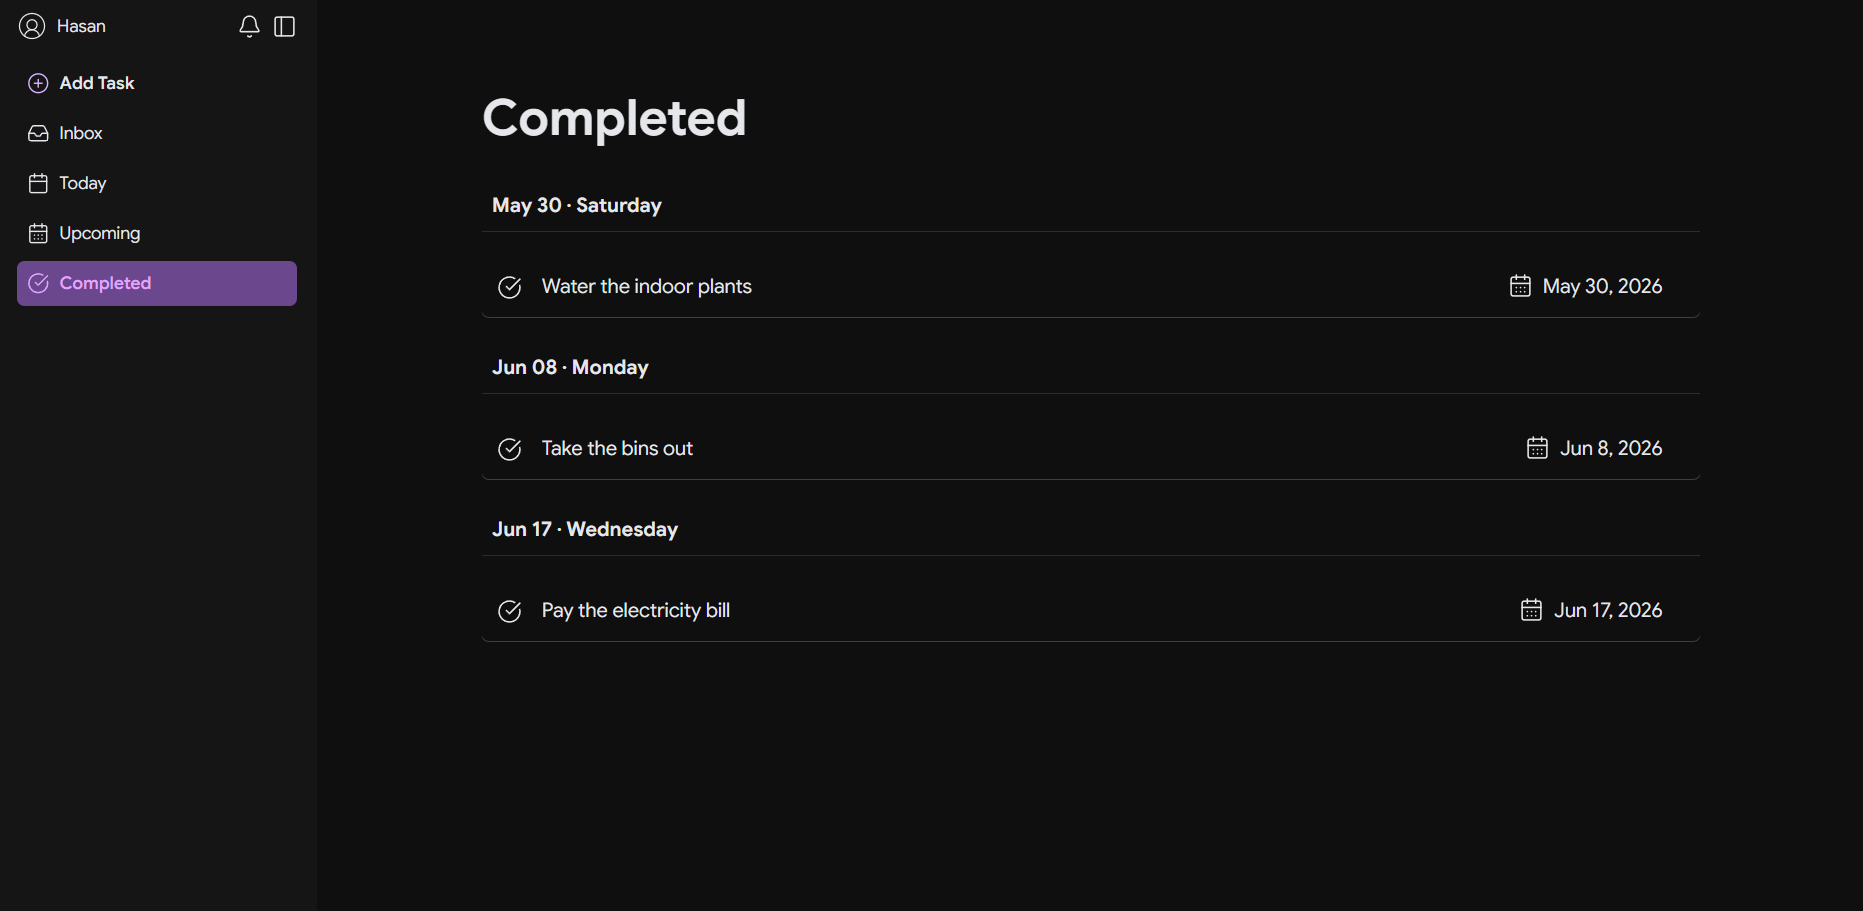
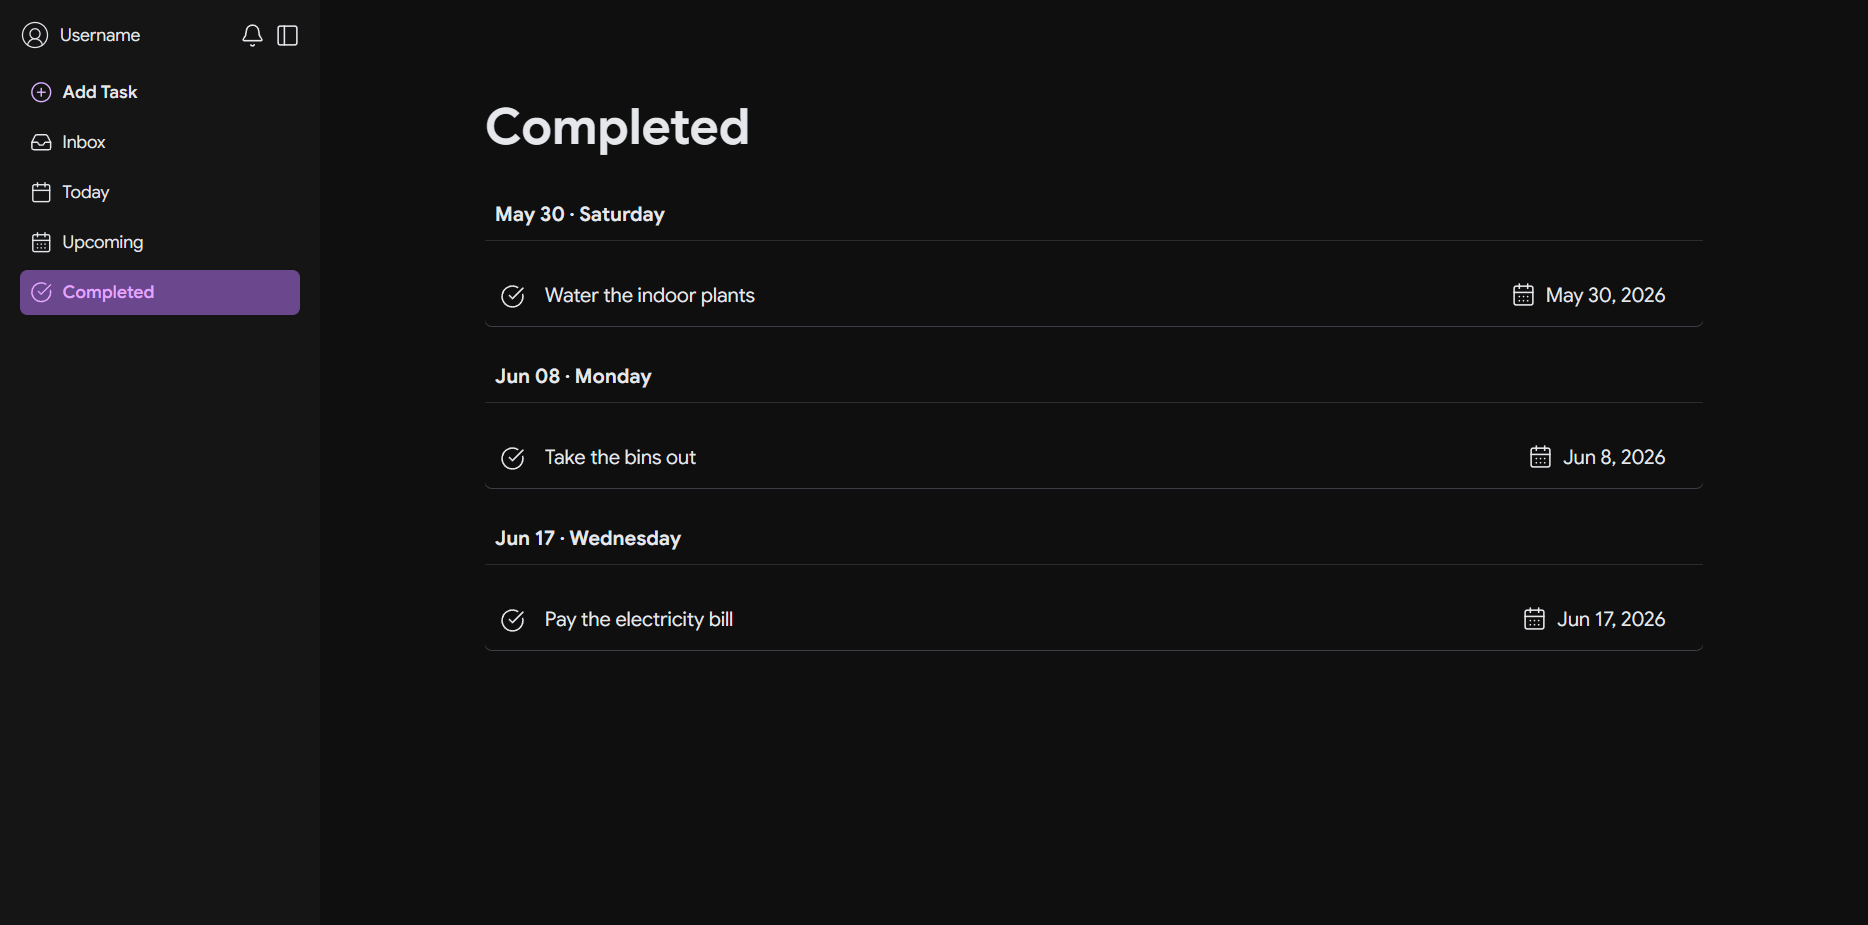
minor change

diff --git a/src/components/SideBar.tsx b/src/components/SideBar.tsx
@@ -29,7 +29,7 @@ return (
       <div className="flex items-center gap-2 w-full justify-between">
         <div className="flex items-center gap-2 text-sm">
           <Icons.CircleUserRound strokeWidth={1} />
-          <span>Hasan</span>
+          <span>Username</span>
         </div>
         <div className="flex items-center gap-2 justify-center">
           <Icons.Bell size={20} strokeWidth={1.5} />
